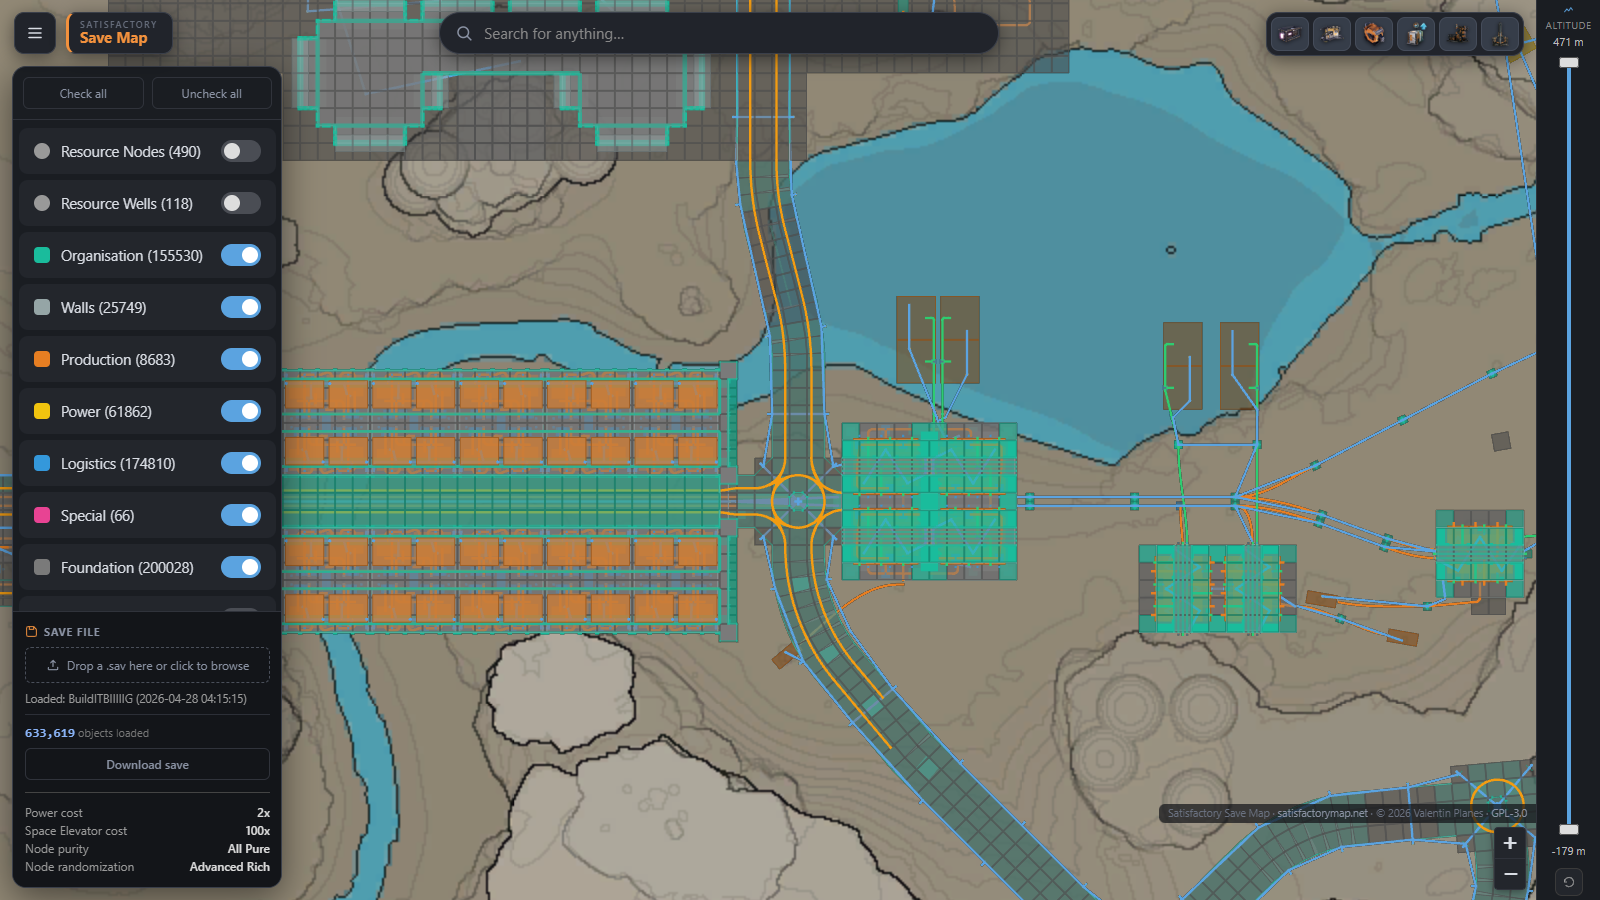
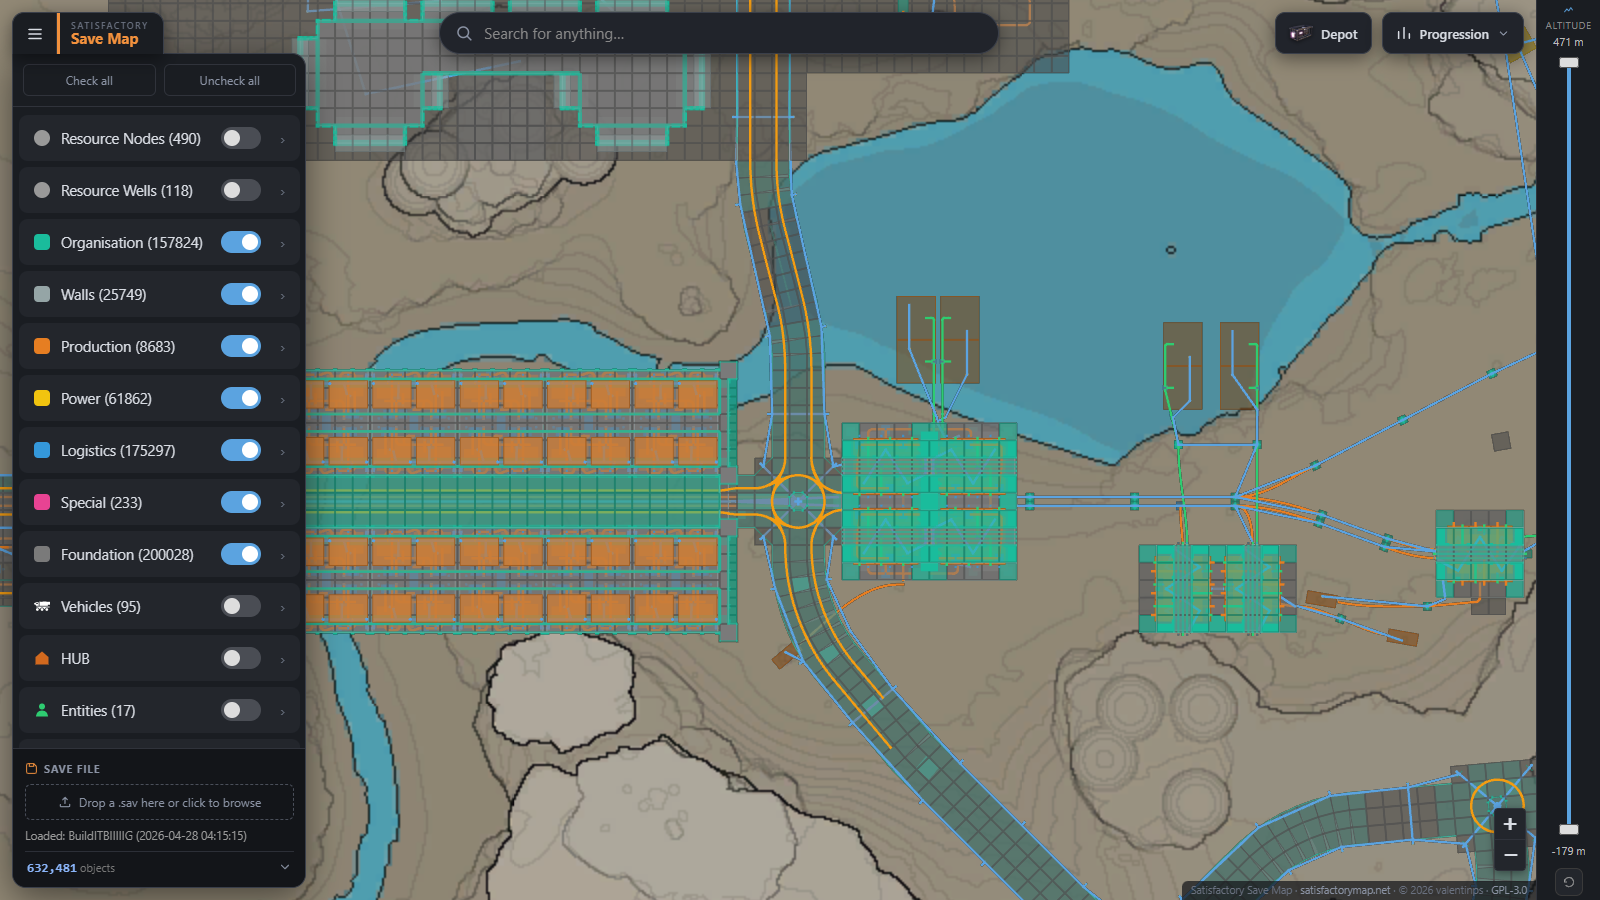
Footer attribution: valentinps; refresh screenshots + social card with new UI

diff --git a/map/static/map/map.js b/map/static/map/map.js
@@ -2148,7 +2148,7 @@ var MapApp = {};
       .addAttribution(
         'Satisfactory Save Map &middot; ' +
         '<a href="https://satisfactorymap.net/" target="_blank" rel="noopener">satisfactorymap.net</a>' +
-        ' &middot; &copy; 2026 Valentin Planes &middot; ' +
+        ' &middot; &copy; 2026 valentinps &middot; ' +
         '<a href="https://github.com/valentinps/satisfactorymap/blob/main/LICENSE" target="_blank" rel="noopener">GPL-3.0</a>')
       .addTo(map);
     L.control.zoom({ position: "bottomright" }).addTo(map);